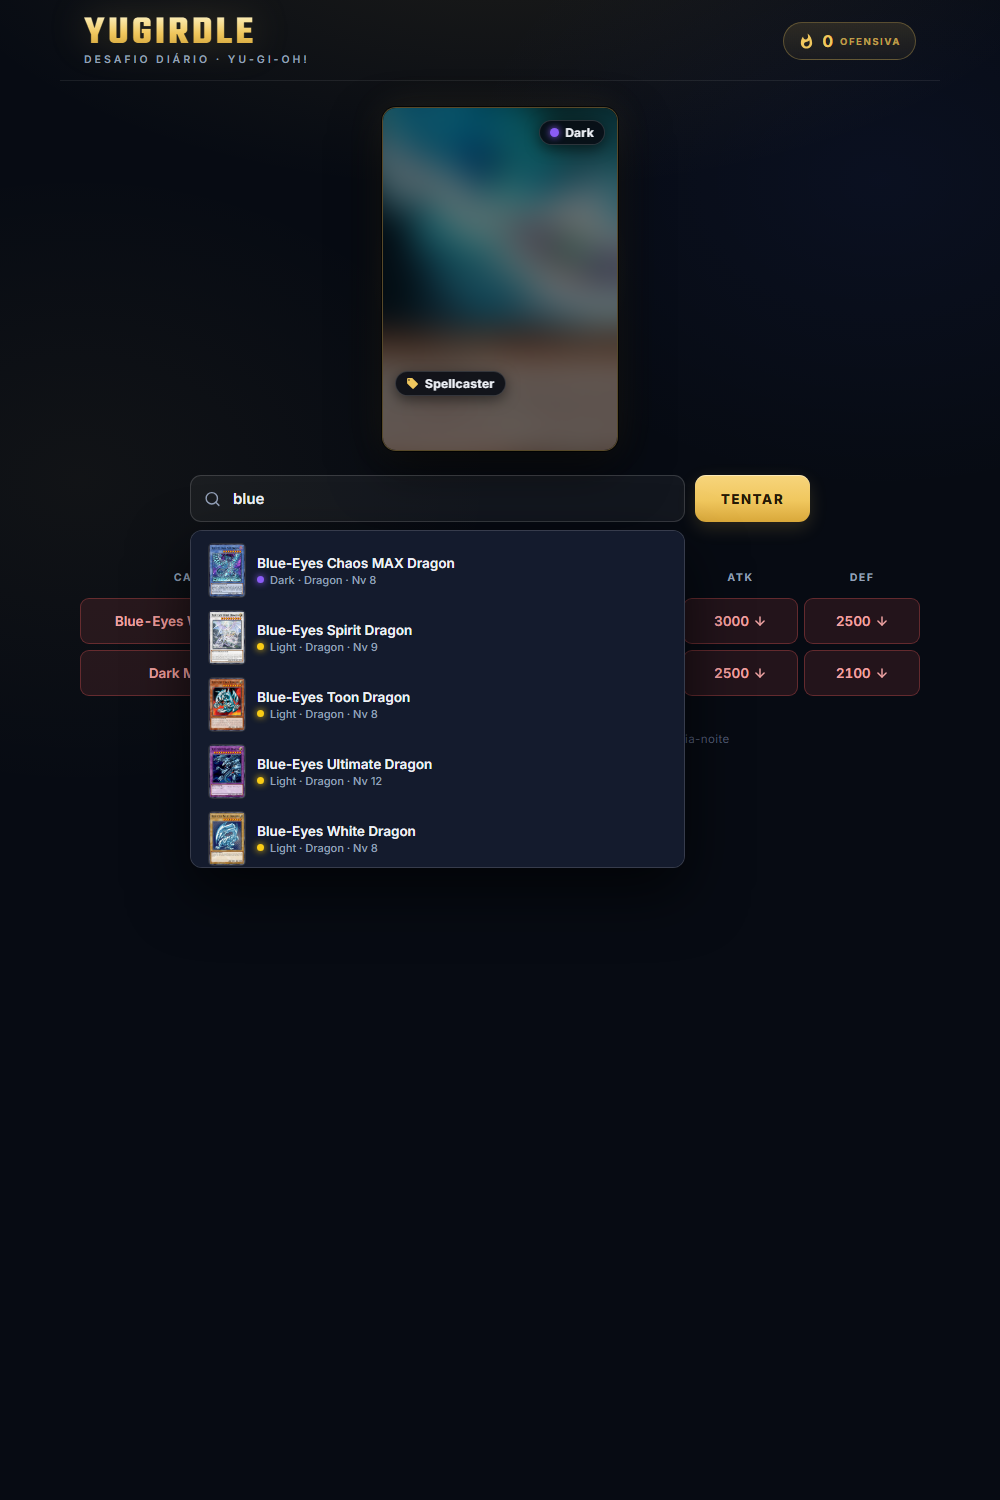
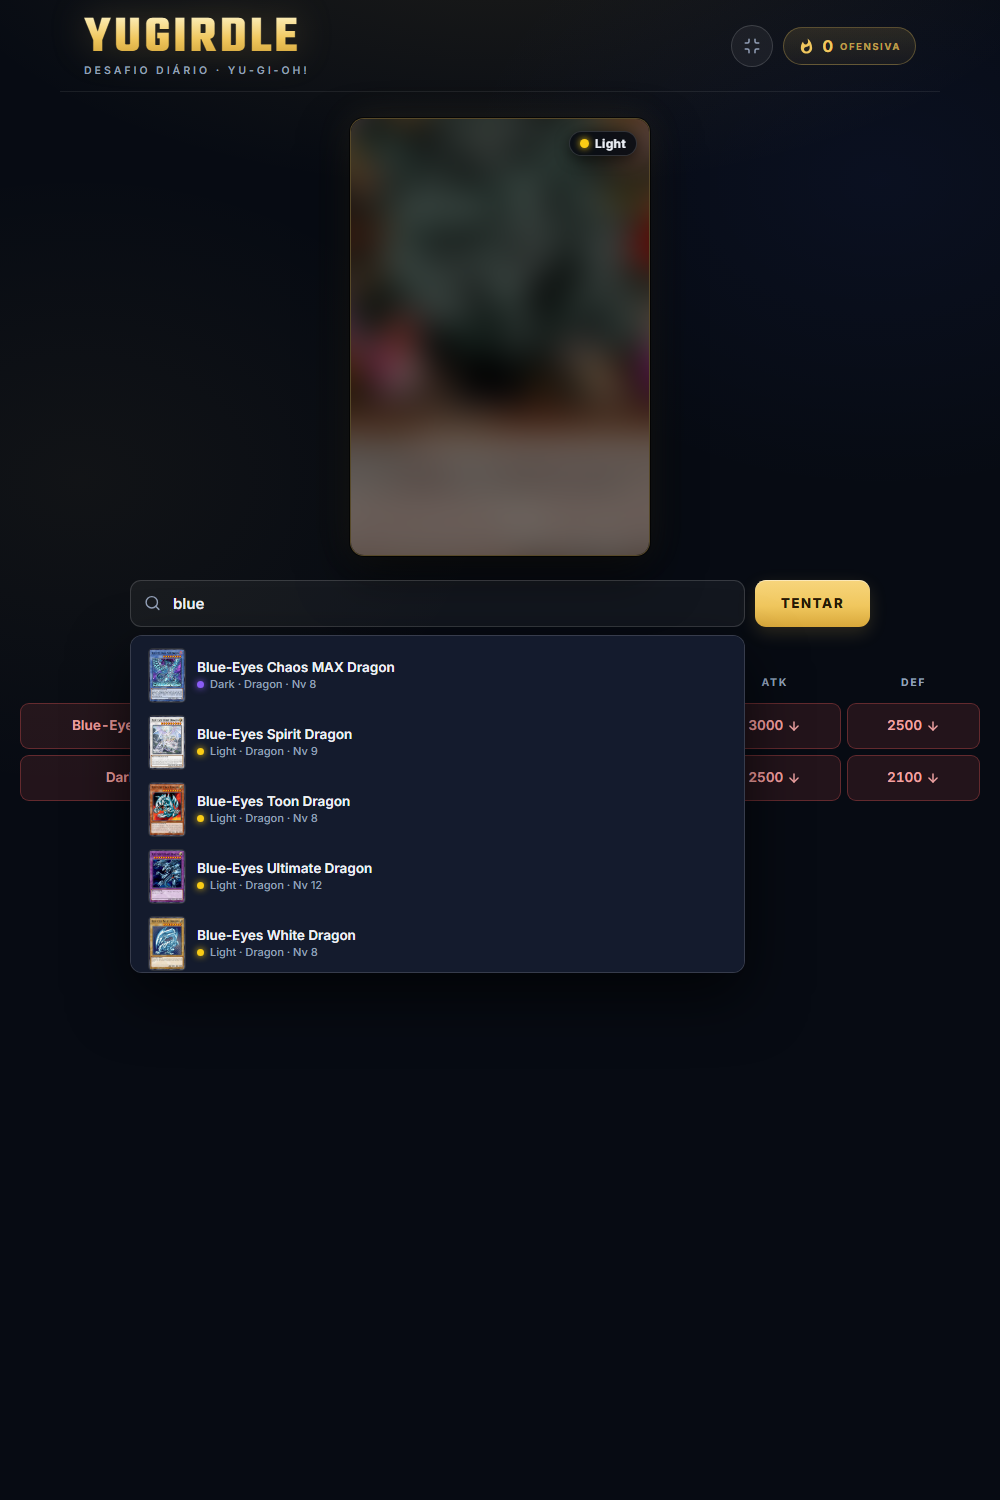
Botão Full screen

Changed region(s): [[0.0, 0.0613, 0.992, 0.6747], [0.093, 0.0, 0.31, 0.0613], [0.775, 0.0, 0.899, 0.0613]]

diff --git a/index.html b/index.html
@@ -81,6 +81,19 @@
             font-size: 9.5px; letter-spacing: 1.6px; text-transform: uppercase;
             color: rgba(240, 199, 94, 0.75); font-weight: 700;
         }
+        .header-right { display: flex; align-items: center; gap: 10px; }
+        .icon-btn {
+            width: 42px; height: 42px; padding: 0;
+            display: flex; align-items: center; justify-content: center;
+            background: rgba(255, 255, 255, 0.05);
+            border: 1px solid var(--border-strong);
+            border-radius: 999px; color: var(--muted);
+            box-shadow: none; letter-spacing: 0; text-transform: none; font-size: 0;
+            transition: color 0.2s, border-color 0.2s, background 0.2s, transform 0.1s;
+        }
+        .icon-btn svg { width: 18px; height: 18px; display: block; }
+        .icon-btn:hover:not(:disabled) { color: var(--gold); border-color: rgba(240, 199, 94, 0.5); background: rgba(240, 199, 94, 0.08); filter: none; }
+        .icon-btn:active:not(:disabled) { transform: scale(0.92); }
 
         /* ===== CARTA MISTERIOSA ===== */
         .card-stage { position: relative; padding: 26px 0 8px; animation: fadeUp 0.5s ease backwards; }
@@ -96,6 +109,7 @@
             border: 1px solid rgba(240, 199, 94, 0.35);
             box-shadow: 0 0 0 1px rgba(0, 0, 0, 0.65), 0 22px 50px rgba(0, 0, 0, 0.6), 0 0 36px rgba(240, 199, 94, 0.1);
             display: flex; justify-content: center; align-items: center;
+            transition: width 0.45s ease, height 0.45s ease;
         }
         .dynamic-card-image {
             width: 100%;
@@ -308,6 +322,12 @@
 
         footer { padding: 4px 20px 34px; color: #525c72; font-size: 11.5px; letter-spacing: 0.4px; text-align: center; }
 
+        /* ===== TELA CHEIA ===== */
+        body.fullscreen h1 { font-size: 52px; }
+        body.fullscreen .dynamic-card-container { width: 300px; height: 438px; }
+        body.fullscreen .input-area { max-width: 780px; }
+        body.fullscreen .grid-container { max-width: 1020px; }
+
         /* ===== ANIMAÇÕES ===== */
         @keyframes fadeIn { from { opacity: 0; } to { opacity: 1; } }
         @keyframes modalIn { from { opacity: 0; transform: translateY(20px) scale(0.96); } to { opacity: 1; transform: none; } }
@@ -331,10 +351,15 @@
             <h1>YUGIRDLE</h1>
             <small>Desafio diário &middot; Yu-Gi-Oh!</small>
         </div>
-        <div class="streak-box" title="Ofensiva de dias consecutivos">
-            <svg viewBox="0 0 24 24" fill="currentColor"><path d="M13.5.67s.74 2.65.74 4.8c0 2.06-1.35 3.73-3.41 3.73-2.07 0-3.63-1.67-3.63-3.73l.03-.36C5.21 7.51 4 10.62 4 14c0 4.42 3.58 8 8 8s8-3.58 8-8C20 8.61 17.41 3.8 13.5.67zM11.71 19c-1.78 0-3.22-1.4-3.22-3.14 0-1.62 1.05-2.76 2.81-3.12 1.77-.36 3.6-1.21 4.62-2.58.39 1.29.59 2.65.59 4.04 0 2.65-2.15 4.8-4.8 4.8z"/></svg>
-            <span id="streak-count">0</span>
-            <span class="label">ofensiva</span>
+        <div class="header-right">
+            <button id="fullscreen-btn" class="icon-btn" title="Tela cheia (F)" aria-label="Alternar tela cheia">
+                <span id="fs-icon"></span>
+            </button>
+            <div class="streak-box" title="Ofensiva de dias consecutivos">
+                <svg viewBox="0 0 24 24" fill="currentColor"><path d="M13.5.67s.74 2.65.74 4.8c0 2.06-1.35 3.73-3.41 3.73-2.07 0-3.63-1.67-3.63-3.73l.03-.36C5.21 7.51 4 10.62 4 14c0 4.42 3.58 8 8 8s8-3.58 8-8C20 8.61 17.41 3.8 13.5.67zM11.71 19c-1.78 0-3.22-1.4-3.22-3.14 0-1.62 1.05-2.76 2.81-3.12 1.77-.36 3.6-1.21 4.62-2.58.39 1.29.59 2.65.59 4.04 0 2.65-2.15 4.8-4.8 4.8z"/></svg>
+                <span id="streak-count">0</span>
+                <span class="label">ofensiva</span>
+            </div>
         </div>
     </header>
 
@@ -596,7 +621,9 @@
         setaBaixo: '<svg viewBox="0 0 24 24" fill="none" stroke="currentColor" stroke-width="2.5" stroke-linecap="round" stroke-linejoin="round"><path d="M12 5v14"/><path d="m19 12-7 7-7-7"/></svg>',
         trofeu: '<svg viewBox="0 0 24 24" fill="none" stroke="currentColor" stroke-width="2" stroke-linecap="round" stroke-linejoin="round"><path d="M6 9H4.5a2.5 2.5 0 0 1 0-5H6"/><path d="M18 9h1.5a2.5 2.5 0 0 0 0-5H18"/><path d="M4 22h16"/><path d="M10 14.66V17c0 .55-.47.98-.97 1.21C7.85 18.75 7 20.24 7 22"/><path d="M14 14.66V17c0 .55.47.98.97 1.21C16.15 18.75 17 20.24 17 22"/><path d="M18 2H6v7a6 6 0 0 0 12 0V2Z"/></svg>',
         derrota: '<svg viewBox="0 0 24 24" fill="none" stroke="currentColor" stroke-width="2" stroke-linecap="round" stroke-linejoin="round"><circle cx="12" cy="12" r="10"/><line x1="15" y1="9" x2="9" y2="15"/><line x1="9" y1="9" x2="15" y2="15"/></svg>',
-        verificar: '<svg viewBox="0 0 24 24" fill="none" stroke="currentColor" stroke-width="2.5" stroke-linecap="round" stroke-linejoin="round"><polyline points="20 6 9 17 4 12"/></svg>'
+        verificar: '<svg viewBox="0 0 24 24" fill="none" stroke="currentColor" stroke-width="2.5" stroke-linecap="round" stroke-linejoin="round"><polyline points="20 6 9 17 4 12"/></svg>',
+        telaCheia: '<svg viewBox="0 0 24 24" fill="none" stroke="currentColor" stroke-width="2" stroke-linecap="round" stroke-linejoin="round"><path d="M8 3H5a2 2 0 0 0-2 2v3"/><path d="M21 8V5a2 2 0 0 0-2-2h-3"/><path d="M3 16v3a2 2 0 0 0 2 2h3"/><path d="M16 21h3a2 2 0 0 0 2-2v-3"/></svg>',
+        telaJanela: '<svg viewBox="0 0 24 24" fill="none" stroke="currentColor" stroke-width="2" stroke-linecap="round" stroke-linejoin="round"><path d="M8 3v3a2 2 0 0 1-2 2H3"/><path d="M21 8h-3a2 2 0 0 1-2-2V3"/><path d="M3 16h3a2 2 0 0 1 2 2v3"/><path d="M16 21v-3a2 2 0 0 1 2-2h3"/></svg>'
     };
 
     const CORES_ATRIBUTO = {
@@ -740,6 +767,54 @@
         }
         document.getElementById('attempt-dots').innerHTML = html;
     }
+
+    // === TELA CHEIA ===
+    const fsBtn = document.getElementById('fullscreen-btn');
+    const fsIcon = document.getElementById('fs-icon');
+
+    function estaEmTelaCheia() {
+        return !!(document.fullscreenElement || document.webkitFullscreenElement);
+    }
+
+    function alternarTelaCheia() {
+        const docEl = document.documentElement;
+        try {
+            if (!estaEmTelaCheia()) {
+                const pedir = docEl.requestFullscreen || docEl.webkitRequestFullscreen;
+                if (!pedir) {
+                    mostrarToast("Seu navegador não suporta tela cheia.");
+                    return;
+                }
+                const pedido = pedir.call(docEl);
+                if (pedido && pedido.catch) {
+                    pedido.catch(() => mostrarToast("Tela cheia bloqueada pelo navegador/site."));
+                }
+            } else {
+                const sair = document.exitFullscreen || document.webkitExitFullscreen;
+                if (sair) sair.call(document);
+            }
+        } catch (err) {
+            mostrarToast("Tela cheia bloqueada pelo navegador/site.");
+        }
+    }
+
+    function atualizarIconeTelaCheia() {
+        const cheio = estaEmTelaCheia();
+        fsIcon.innerHTML = cheio ? ICONES.telaJanela : ICONES.telaCheia;
+        fsBtn.title = cheio ? "Sair da tela cheia (F)" : "Tela cheia (F)";
+        document.body.classList.toggle('fullscreen', cheio);
+    }
+
+    fsBtn.addEventListener('click', alternarTelaCheia);
+    ['fullscreenchange', 'webkitfullscreenchange'].forEach(ev => document.addEventListener(ev, atualizarIconeTelaCheia));
+    document.addEventListener('keydown', (e) => {
+        if (!e.key || e.key.toLowerCase() !== 'f' || e.ctrlKey || e.metaKey || e.altKey) return;
+        const tag = (e.target.tagName || '').toLowerCase();
+        if (tag === 'input' || tag === 'textarea' || e.target.isContentEditable) return;
+        e.preventDefault();
+        alternarTelaCheia();
+    });
+    atualizarIconeTelaCheia();
 
     // --- LÓGICA ATUALIZADA DA CARTA DINÂMICA ---
     function atualizarConstrucaoDaCarta() {
